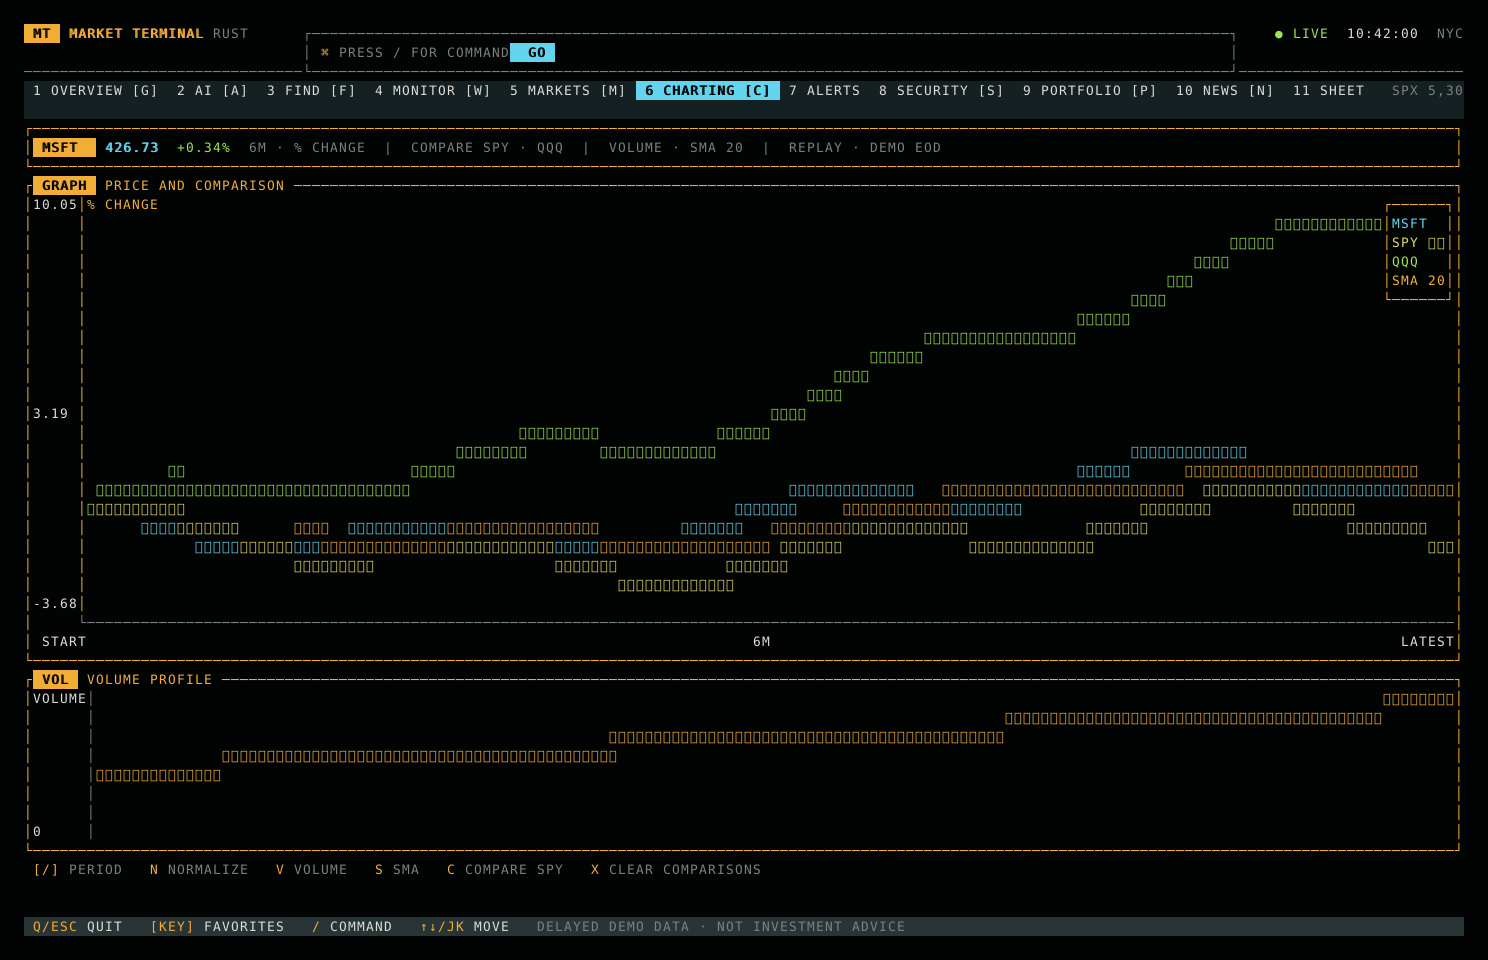
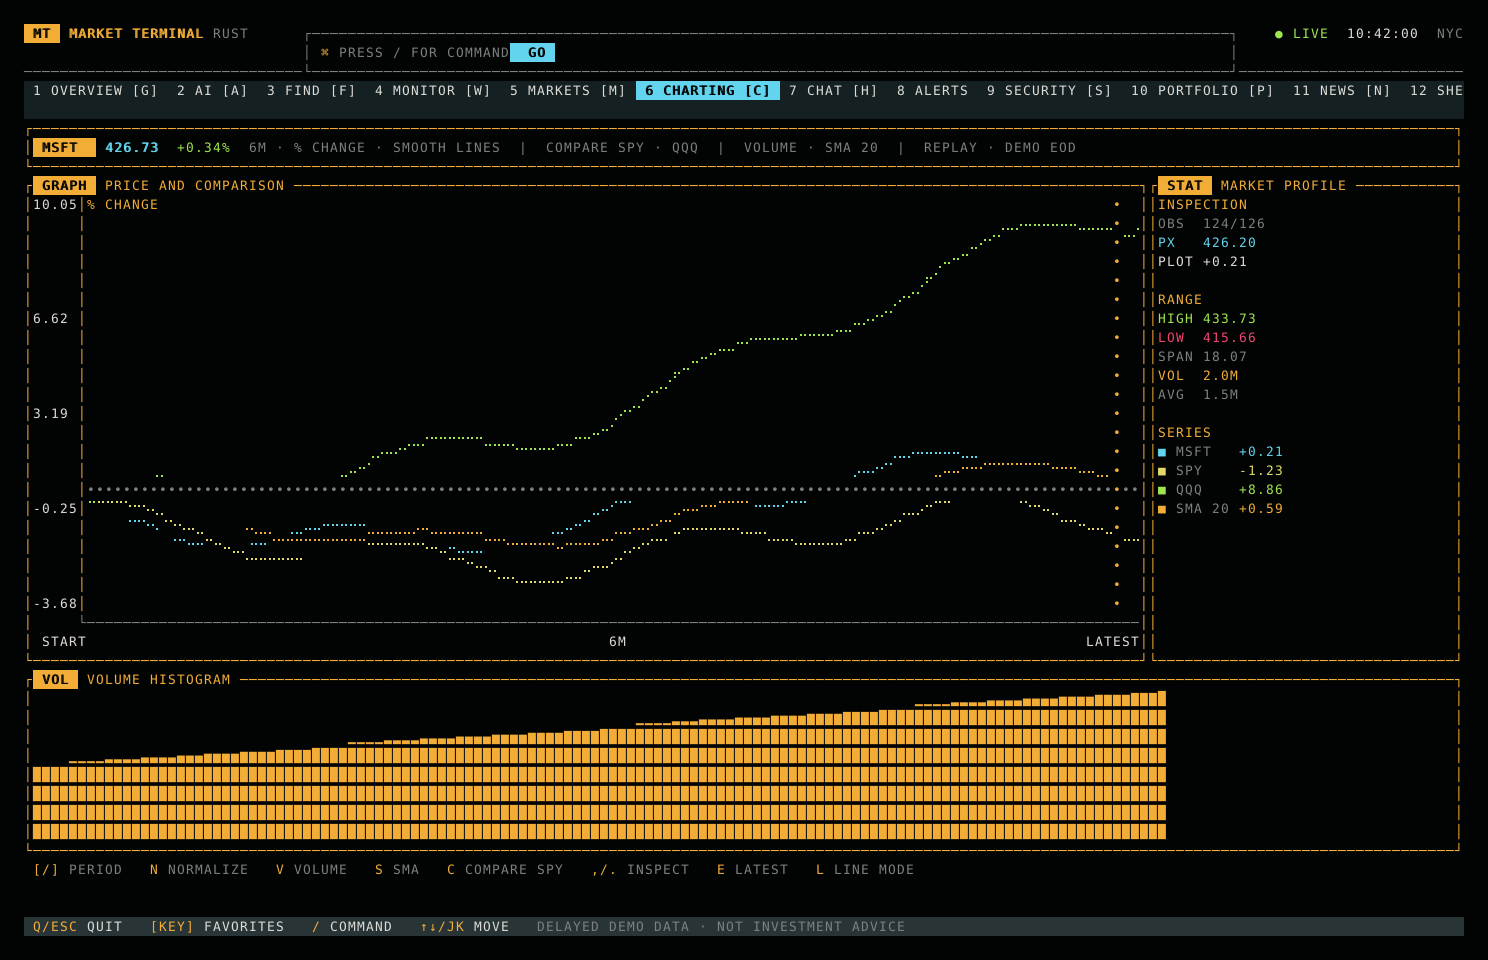
feat: add smooth font-safe chart lines
Render high-resolution chart traces without replacement boxes, add a compatibility line mode, test the toggle, and refresh the native chart capture.

diff --git a/src/features/charting/workspace.rs b/src/features/charting/workspace.rs
@@ -27,6 +27,35 @@ use super::{
 const SERIES_COLORS: [Color; 4] = [CYAN, YELLOW, GREEN, RED];
 const DEFAULT_MOVING_AVERAGE: Study = Study::SimpleMovingAverage { window: 20 };
 
+#[derive(Clone, Copy, PartialEq, Eq)]
+enum ChartLineMode {
+    Smooth,
+    Compatible,
+}
+
+impl ChartLineMode {
+    const fn marker(self) -> symbols::Marker {
+        match self {
+            Self::Smooth => symbols::Marker::Braille,
+            Self::Compatible => symbols::Marker::HalfBlock,
+        }
+    }
+
+    const fn toggled(self) -> Self {
+        match self {
+            Self::Smooth => Self::Compatible,
+            Self::Compatible => Self::Smooth,
+        }
+    }
+
+    const fn label(self) -> &'static str {
+        match self {
+            Self::Smooth => "SMOOTH",
+            Self::Compatible => "COMPAT",
+        }
+    }
+}
+
 struct PreparedLine {
     name: String,
     points: Vec<(f64, f64)>,
@@ -55,6 +84,7 @@ pub struct ChartingWorkspace {
     specification: ChartSpecification,
     status: String,
     cursor_offset: usize,
+    line_mode: ChartLineMode,
 }
 
 impl ChartingWorkspace {
@@ -64,6 +94,7 @@ impl ChartingWorkspace {
             specification: ChartSpecification::new(ChartInstrument::from_terminal_subject("AAPL")),
             status: "READY · [/] PERIOD · N NORMALIZE · V VOLUME · S SMA".to_owned(),
             cursor_offset: 0,
+            line_mode: ChartLineMode::Smooth,
         }
     }
 
@@ -140,9 +171,10 @@ impl ChartingWorkspace {
                 Span::styled(format!("{:+.2}%  ", chart.change_percent), change_style),
                 Span::styled(
                     format!(
-                        "{} · {}  |  COMPARE {}  |  {}  |  {} · {}",
+                        "{} · {} · {} LINES  |  COMPARE {}  |  {}  |  {} · {}",
                         self.specification.period.label(),
                         self.specification.normalization.label(),
+                        self.line_mode.label(),
                         comparisons,
                         studies,
                         chart.quality,
@@ -180,7 +212,7 @@ impl ChartingWorkspace {
             .map(|line| {
                 Dataset::default()
                     .name(line.name.clone())
-                    .marker(symbols::Marker::Braille)
+                    .marker(self.line_mode.marker())
                     .graph_type(GraphType::Line)
                     .style(line.color)
                     .data(&line.points)
@@ -398,6 +430,11 @@ impl Workspace for ChartingWorkspace {
                 self.status = "INSPECT · LATEST OBSERVATION".to_owned();
                 true
             }
+            KeyCode::Char('l') => {
+                self.line_mode = self.line_mode.toggled();
+                self.status = format!("LINE MODE · {}", self.line_mode.label());
+                true
+            }
             _ => false,
         }
     }
@@ -456,7 +493,9 @@ impl Workspace for ChartingWorkspace {
                 Span::styled(" ,/. ", AMBER),
                 Span::styled("INSPECT  ", MUTED),
                 Span::styled(" E ", AMBER),
-                Span::styled("LATEST", MUTED),
+                Span::styled("LATEST  ", MUTED),
+                Span::styled(" L ", AMBER),
+                Span::styled("LINE MODE", MUTED),
             ]))
             .style(Style::new().fg(INK)),
             sections[2],
@@ -824,6 +863,14 @@ mod tests {
         assert_eq!(workspace.cursor_offset, 1);
         assert!(workspace.handle_key(KeyEvent::new(KeyCode::Char('e'), KeyModifiers::NONE)));
         assert_eq!(workspace.cursor_offset, 0);
+    }
+
+    #[test]
+    fn line_mode_can_fall_back_for_limited_terminal_fonts() {
+        let mut workspace = ChartingWorkspace::new(Arc::new(StubHistory));
+        assert_eq!(workspace.line_mode.label(), "SMOOTH");
+        assert!(workspace.handle_key(KeyEvent::new(KeyCode::Char('l'), KeyModifiers::NONE)));
+        assert_eq!(workspace.line_mode.label(), "COMPAT");
     }
 
     #[test]

diff --git a/examples/capture_gallery.rs b/examples/capture_gallery.rs
@@ -150,6 +150,9 @@ fn draw_symbol(
     color: Rgba<u8>,
     bold: bool,
 ) {
+    if draw_braille(image, symbol, x, y, color) {
+        return;
+    }
     let scale = PxScale::from(FONT_SIZE);
     let scaled = font.as_scaled(scale);
     let baseline = y as f32 + (CELL_HEIGHT as f32 - scaled.height()) / 2.0 + scaled.ascent();
@@ -166,6 +169,43 @@ fn draw_symbol(
         }
         cursor += advance;
     }
+}
+
+/// Rasterizes Unicode Braille directly so generated captures do not depend on
+/// whether the selected text font happens to contain the Braille block.
+fn draw_braille(
+    image: &mut RgbaImage,
+    symbol: &str,
+    x: u32,
+    y: u32,
+    color: Rgba<u8>,
+) -> bool {
+    let mut characters = symbol.chars();
+    let Some(character) = characters.next() else { return false };
+    if characters.next().is_some() || !(('\u{2800}'..='\u{28ff}').contains(&character)) {
+        return false;
+    }
+
+    let pattern = character as u32 - 0x2800;
+    let dots = [
+        (0_u32, 0_u32, 0_u32),
+        (1, 0, 1),
+        (2, 0, 2),
+        (3, 1, 0),
+        (4, 1, 1),
+        (5, 1, 2),
+        (6, 0, 3),
+        (7, 1, 3),
+    ];
+    for (bit, column, row) in dots {
+        if pattern & (1 << bit) == 0 {
+            continue;
+        }
+        let dot_x = x + 2 + column * 4;
+        let dot_y = y + 2 + row * 4;
+        fill_rect(image, dot_x, dot_y, 2, 2, color);
+    }
+    true
 }
 
 fn draw_glyph(
